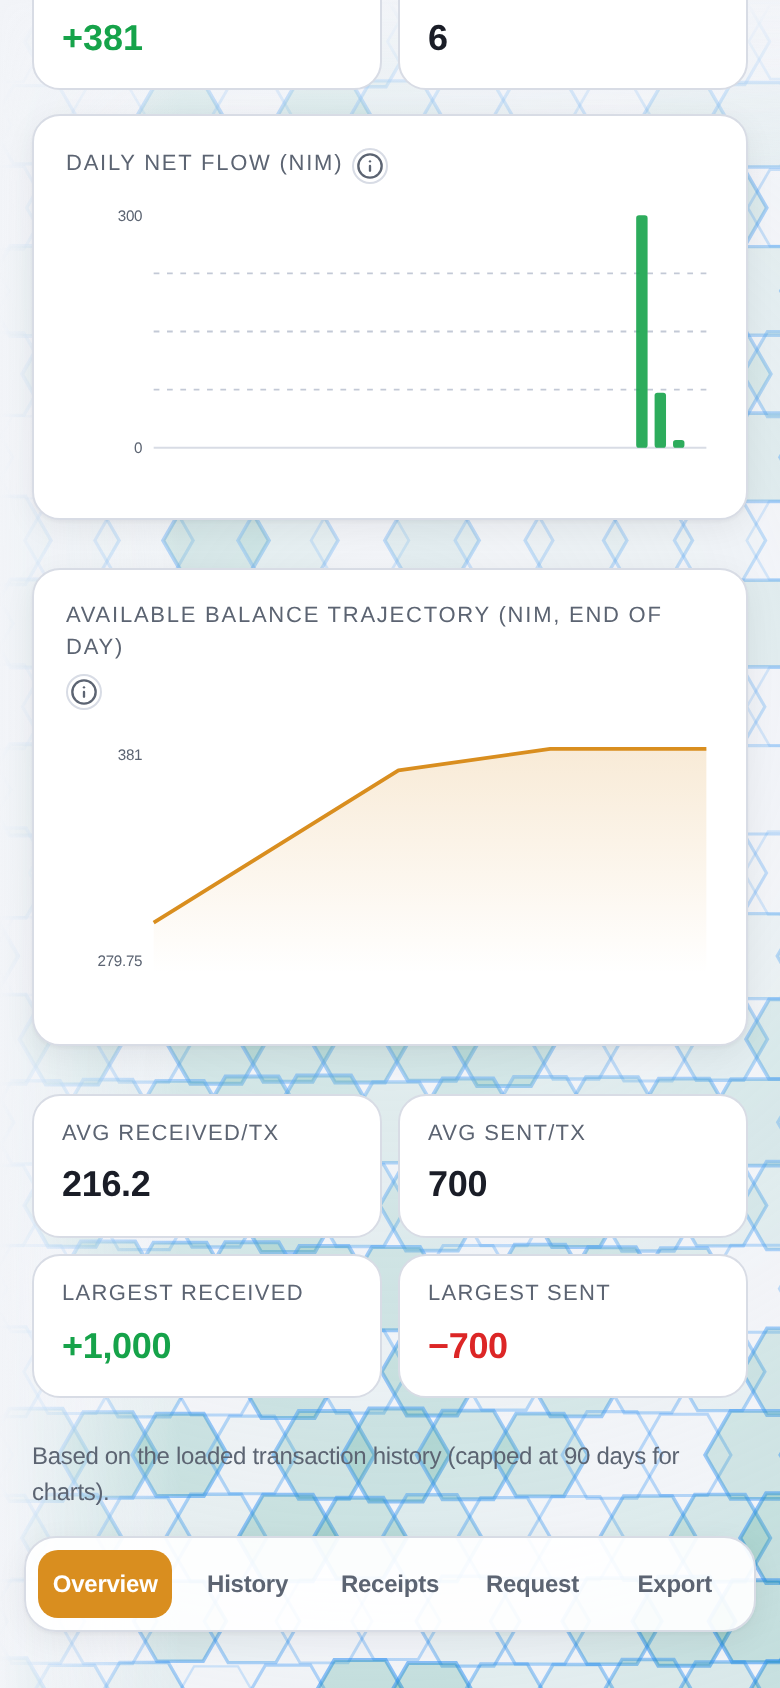
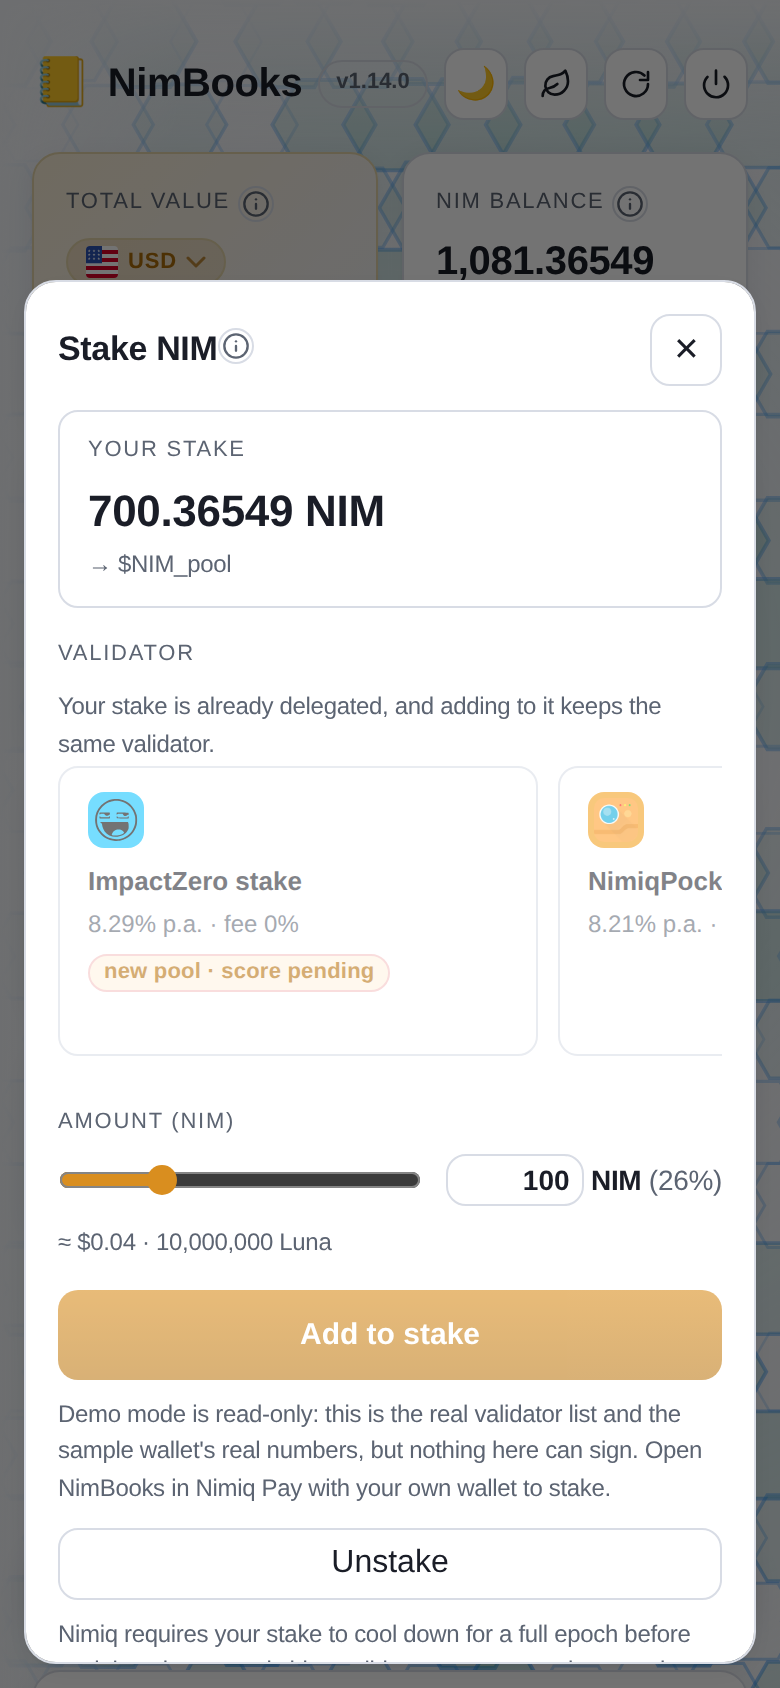
Screenshots: five-shot set with the stake panel (ImpactZero first); charts and receipts rotated out

diff --git a/cycle2/subimpact/README.md b/cycle2/subimpact/README.md
@@ -50,8 +50,6 @@ _Not provided — optional_
 
 ![Screenshot 5](screenshot-5.png)
 
-![Screenshot 6](screenshot-6.png)
-
 ---
 
 _Generated from the submission form. `submission.yaml` in this folder is the machine-readable source of truth._
